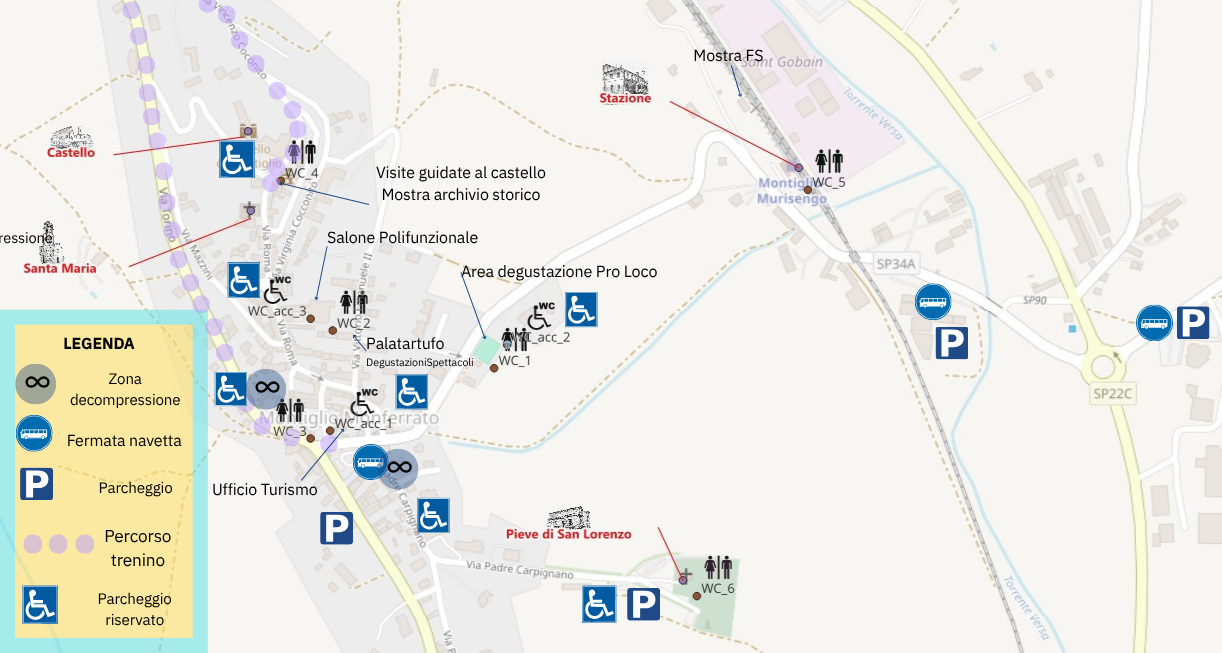
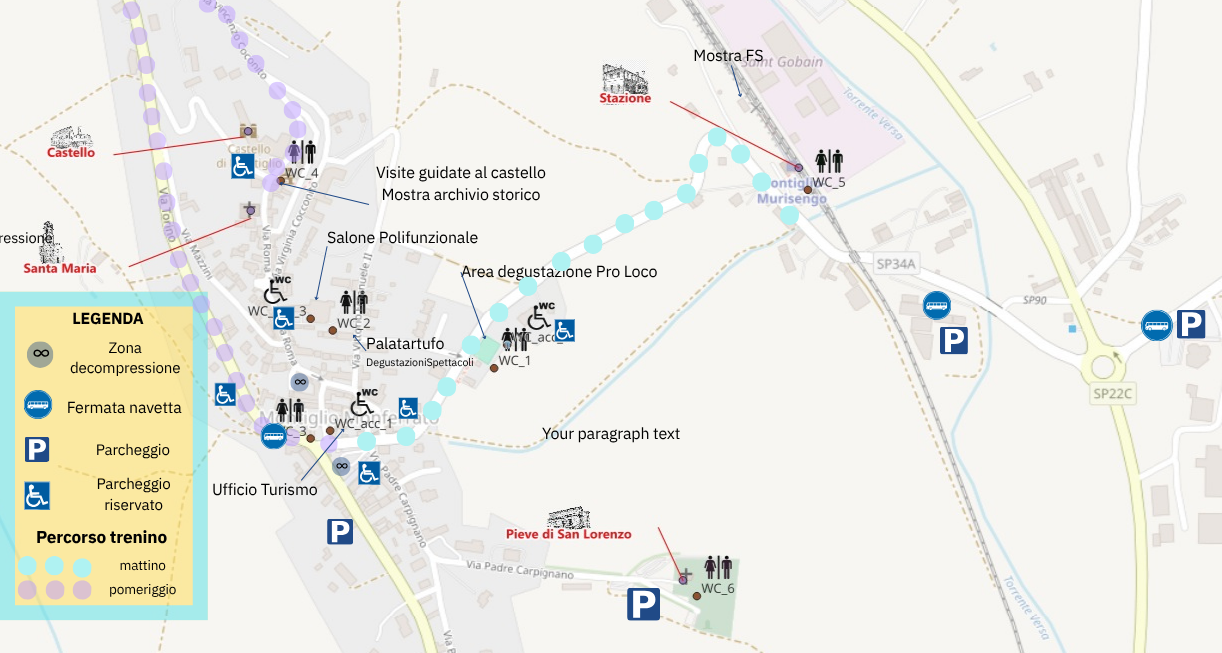
modifica mappa e aggiunta nota su trenino e navetta

diff --git a/index.html b/index.html
@@ -194,14 +194,13 @@
           </p>
         </div>
         <div class="subcard">
-          <h3>Servizio trenino</h3>
+          <h3>Servizio trenino e navetta</h3>
           <p>
             Nel pomeriggio il trenino facilita la salita verso il Castello e le aree
-            del Walking Tour.
+            del Walking Tour. Al mattino e alla sera il servizio viene utilizzato anche per il collegamento con la stazione ferroviaria.
           </p>
           <p>
-            Al mattino e alla sera il servizio viene utilizzato anche per il
-            collegamento con la stazione ferroviaria.
+            L'utilizzo di trenino e navetta è sconsigliato per persone con disabilità motoria che sono pregate di utilizzare i parchggi riservati.
           </p>
         </div>
       </section>